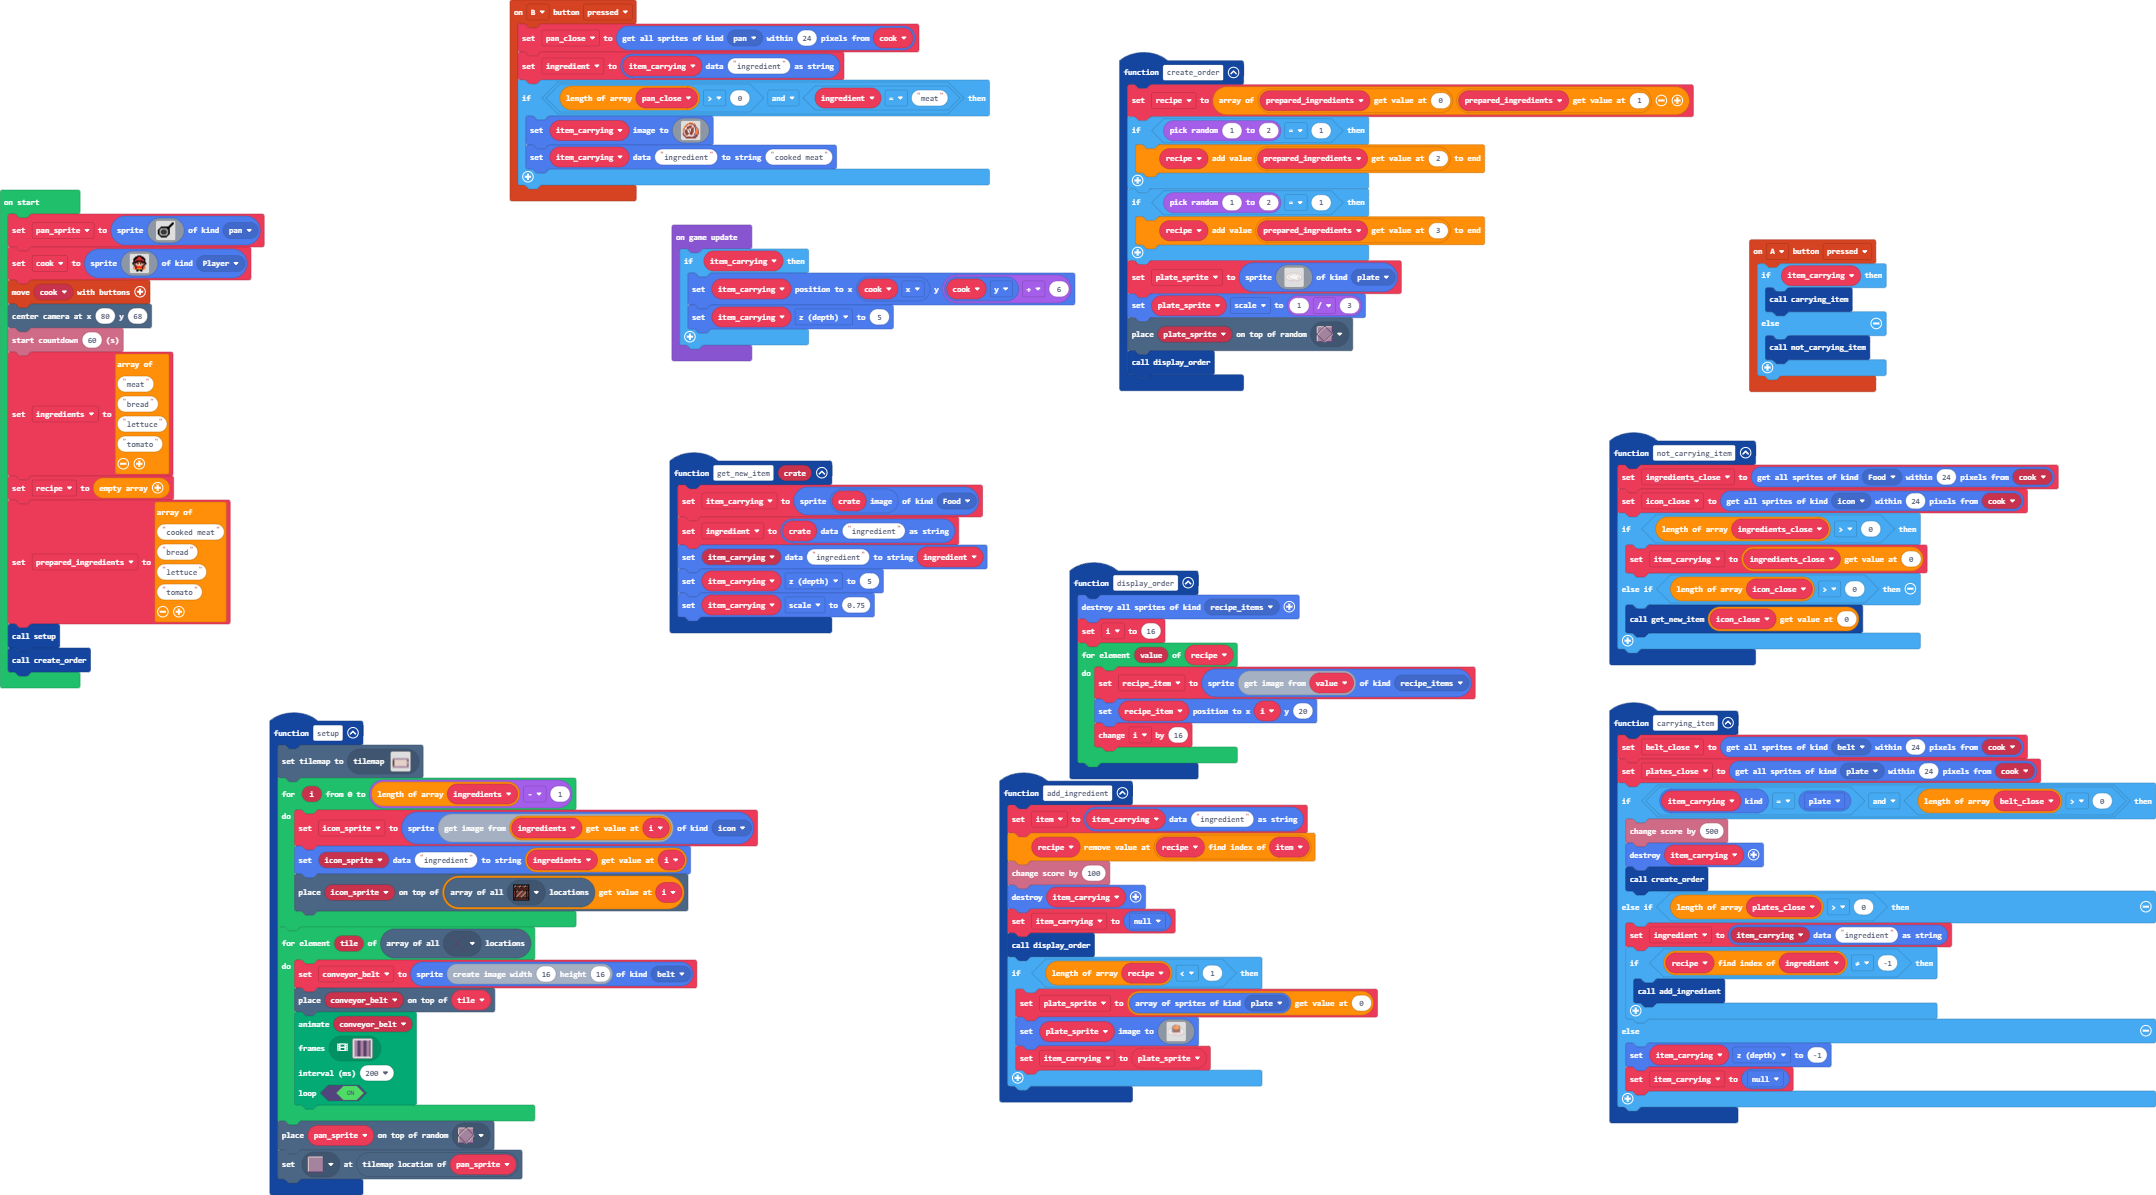
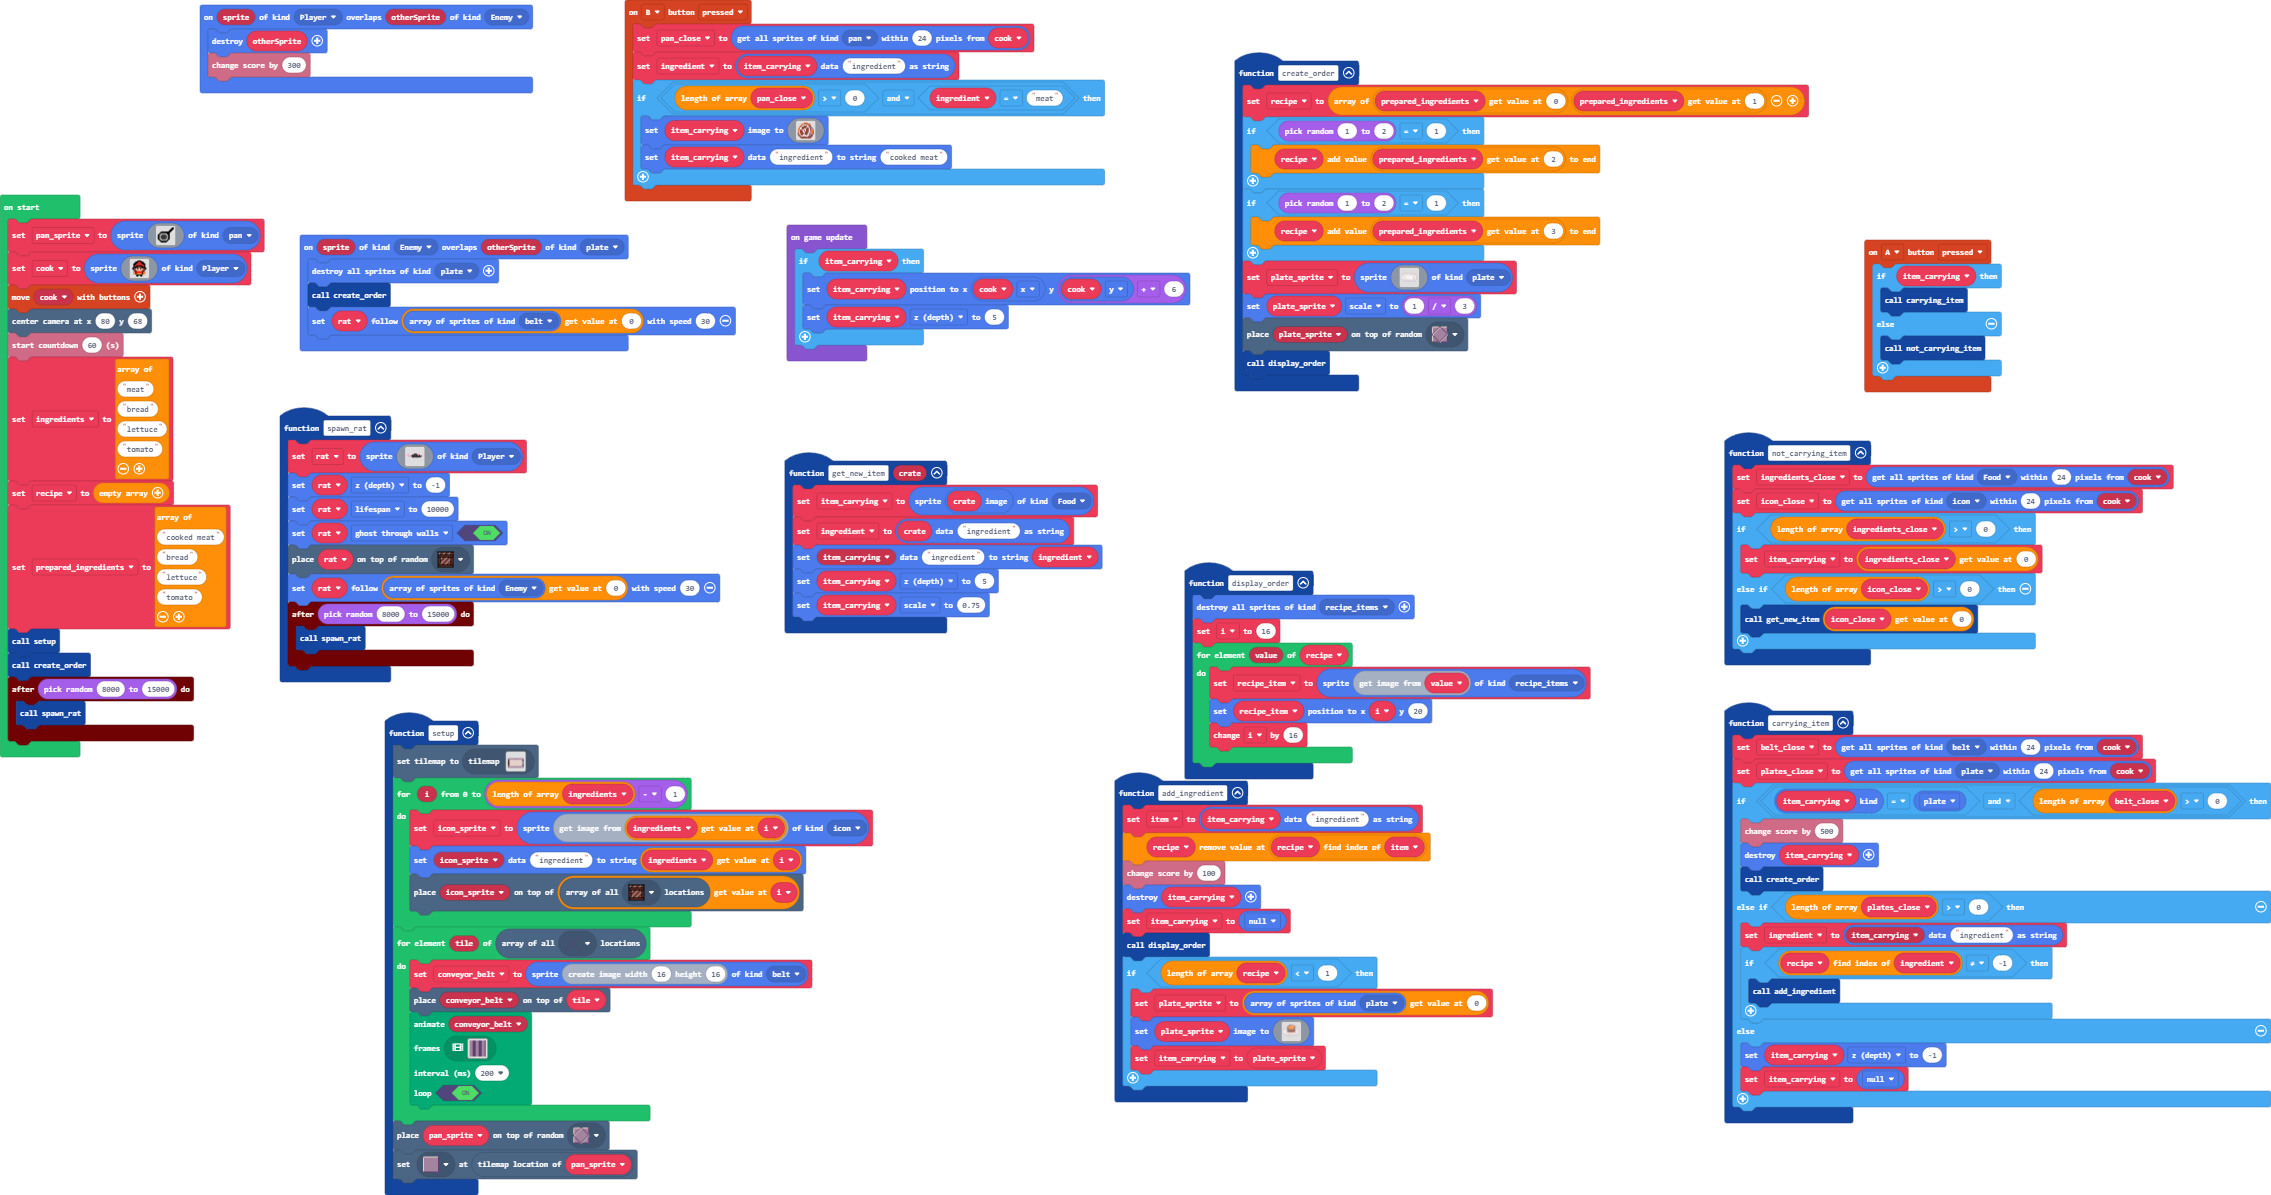
w2

diff --git a/main.ts b/main.ts
@@ -78,6 +78,17 @@ function setup () {
     tiles.placeOnRandomTile(pan_sprite, assets.tile`counter`)
     tiles.setTileAt(pan_sprite.tilemapLocation(), assets.tile`corner counter`)
 }
+function spawn_rat () {
+    rat = sprites.create(assets.image`rat`, SpriteKind.Player)
+    rat.z = -1
+    rat.lifespan = 10000
+    rat.setFlag(SpriteFlag.GhostThroughWalls, true)
+    tiles.placeOnRandomTile(rat, assets.tile`crate`)
+    rat.follow(sprites.allOfKind(SpriteKind.Enemy)[0], 30)
+    timer.after(randint(8000, 15000), function () {
+        spawn_rat()
+    })
+}
 function carrying_item () {
     belt_close = spriteutils.getSpritesWithin(SpriteKind.belt, 24, cook)
     plates_close = spriteutils.getSpritesWithin(SpriteKind.plate, 24, cook)
@@ -95,6 +106,11 @@ function carrying_item () {
         item_carrying = spriteutils.nullConsts(spriteutils.NullConsts.Null)
     }
 }
+sprites.onOverlap(SpriteKind.Enemy, SpriteKind.plate, function (sprite, otherSprite) {
+    sprites.destroyAllSpritesOfKind(SpriteKind.plate)
+    create_order()
+    rat.follow(sprites.allOfKind(SpriteKind.belt)[0], 30)
+})
 function create_order () {
     recipe = [prepared_ingredients[0], prepared_ingredients[1]]
     if (randint(1, 2) == 1) {
@@ -108,8 +124,13 @@ function create_order () {
     tiles.placeOnRandomTile(plate_sprite, assets.tile`counter`)
     display_order()
 }
+sprites.onOverlap(SpriteKind.Player, SpriteKind.Enemy, function (sprite, otherSprite) {
+    sprites.destroy(otherSprite)
+    info.changeScoreBy(300)
+})
 let plates_close: Sprite[] = []
 let belt_close: Sprite[] = []
+let rat: Sprite = null
 let conveyor_belt: Sprite = null
 let icon_sprite: Sprite = null
 let plate_sprite: Sprite = null
@@ -146,6 +167,9 @@ prepared_ingredients = [
 ]
 setup()
 create_order()
+timer.after(randint(8000, 15000), function () {
+    spawn_rat()
+})
 game.onUpdate(function () {
     if (item_carrying) {
         item_carrying.setPosition(cook.x, cook.y + 6)

diff --git a/images.g.ts b/images.g.ts
@@ -234,6 +234,25 @@ e e d e e 1 d d e d 1 b b e e .
 . . e e e e e e e b e e e e . . 
 . . . e e e e e e e e e e . . . 
 `;
+            case "image11":
+            case "rat":return img`
+. . . . . . . . . . . . . . . . 
+. . . . . . . . . . . . . . . . 
+. . . . . . . . . . . . . . . . 
+. . . . . . . . . . . . . . . . 
+. . . . . . . . . . . . . . . . 
+. 3 . . . . . 8 8 8 . 3 . . . . 
+3 . . . . 8 8 8 8 8 8 3 8 . . . 
+. 3 3 3 8 8 8 8 8 8 8 8 8 8 8 3 
+. . . . . 8 8 8 8 8 8 8 8 8 . . 
+. . . . . . 3 . . . 3 . . . . . 
+. . . . . . . . . . . . . . . . 
+. . . . . . . . . . . . . . . . 
+. . . . . . . . . . . . . . . . 
+. . . . . . . . . . . . . . . . 
+. . . . . . . . . . . . . . . . 
+. . . . . . . . . . . . . . . . 
+`;
         }
         return null;
     })
